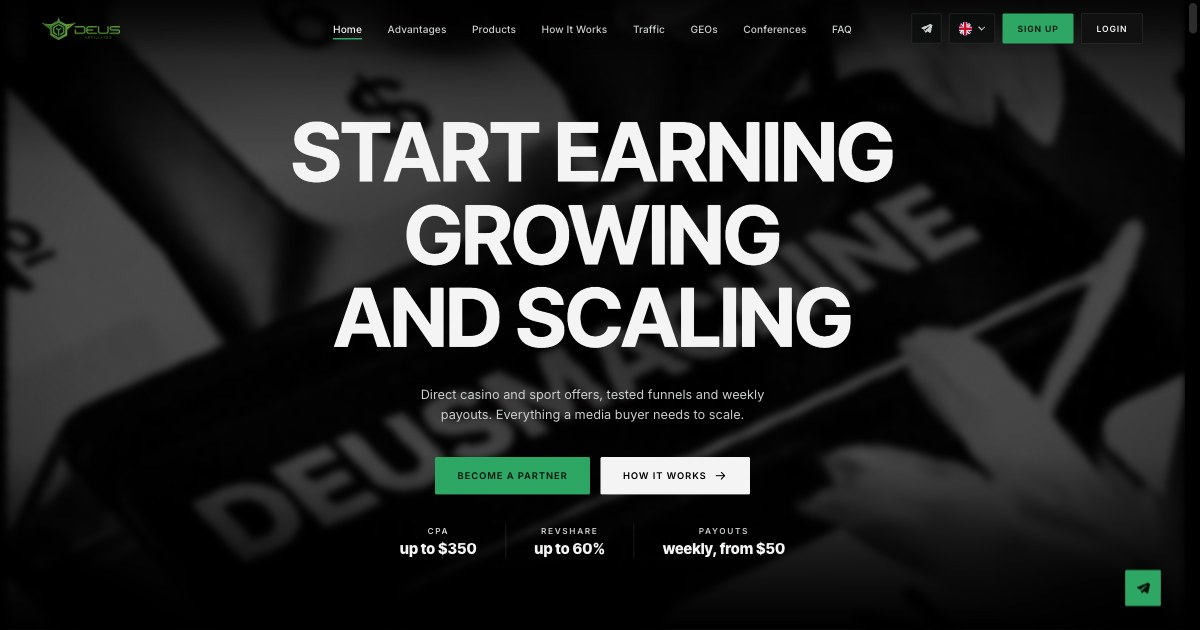
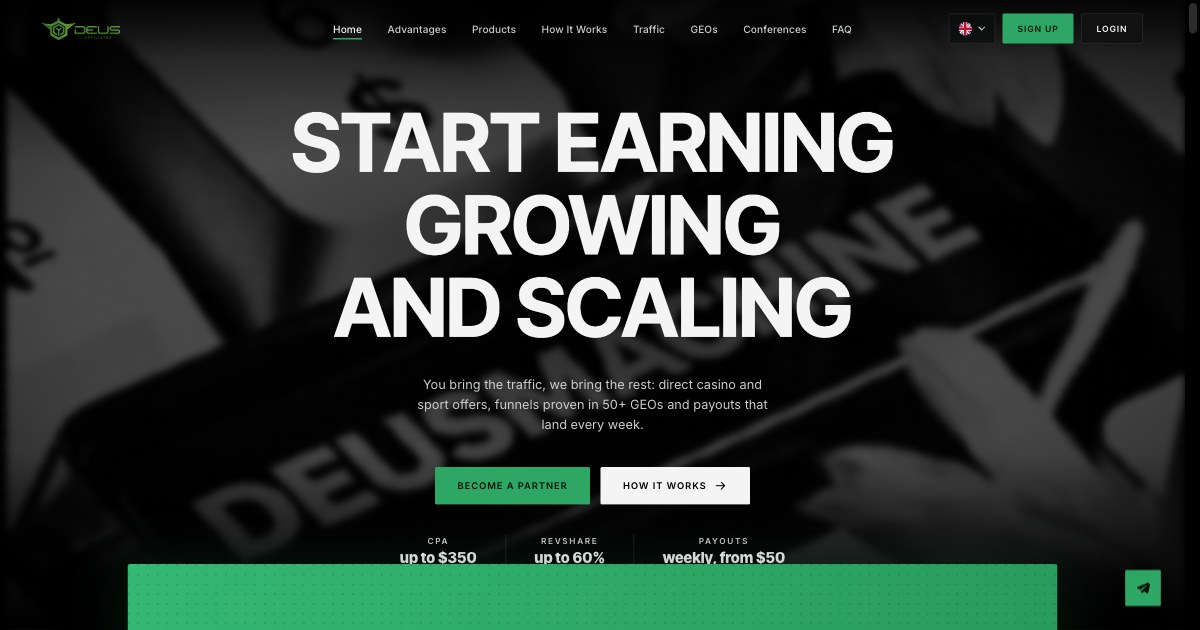
copy: hero subtitle rewritten for affiliate impact
'You bring the traffic, we bring the rest: direct casino and sport
offers, funnels proven in 50+ GEOs and payouts that land every week.'
Division-of-labor pitch instead of a feature list; all 6 dictionaries
updated; OG image regenerated.

Changed region(s): [[0.0925, 0.7238, 0.8942, 1.0], [0.2467, 0.181, 0.7708, 0.573], [0.3392, 0.6032, 0.6475, 0.6937]]

diff --git a/i18n.js b/i18n.js
@@ -16,7 +16,7 @@ export const translations = {
     'Start Earning': 'Зарабатывай',
     'Growing': 'Расти',
     'and Scaling': 'Масштабируйся',
-    'Direct casino and sport offers, tested funnels and weekly payouts. Everything a media buyer needs to scale.': 'Прямые офферы казино и спорта, проверенные воронки и еженедельные выплаты. Всё, что нужно медиабайеру для масштаба.',
+    'You bring the traffic, we bring the rest: direct casino and sport offers, funnels proven in 50+ GEOs and payouts that land every week.': 'С вас трафик, с нас всё остальное: прямые офферы на казино и спорт, воронки, проверенные в 50+ GEO, и выплаты, которые приходят каждую неделю.',
     'Become a Partner': 'Стать партнёром',
     'Active partners': 'Активных партнёров',
     'GEOs covered': 'ГЕО в работе',
@@ -257,7 +257,7 @@ export const translations = {
     'Start Earning': 'Comece a ganhar',
     'Growing': 'Crescer',
     'and Scaling': 'e escalar',
-    'Direct casino and sport offers, tested funnels and weekly payouts. Everything a media buyer needs to scale.': 'Ofertas diretas de cassino e esportes, funis testados e pagamentos semanais. Tudo o que um media buyer precisa para escalar.',
+    'You bring the traffic, we bring the rest: direct casino and sport offers, funnels proven in 50+ GEOs and payouts that land every week.': 'Você traz o tráfego, a gente traz o resto: ofertas diretas de cassino e esportes, funis comprovados em mais de 50 GEOs e pagamentos que caem toda semana.',
     'Become a Partner': 'Seja um parceiro',
     'Active partners': 'Parceiros ativos',
     'GEOs covered': 'GEOs cobertos',
@@ -498,7 +498,7 @@ export const translations = {
     'Start Earning': 'Empieza a ganar',
     'Growing': 'Crecer',
     'and Scaling': 'y escalar',
-    'Direct casino and sport offers, tested funnels and weekly payouts. Everything a media buyer needs to scale.': 'Ofertas directas de casino y deportes, embudos probados y pagos semanales. Todo lo que un media buyer necesita para escalar.',
+    'You bring the traffic, we bring the rest: direct casino and sport offers, funnels proven in 50+ GEOs and payouts that land every week.': 'Tú pones el tráfico, nosotros el resto: ofertas directas de casino y deportes, embudos probados en más de 50 GEOs y pagos que llegan cada semana.',
     'Become a Partner': 'Hazte partner',
     'Active partners': 'Partners activos',
     'GEOs covered': 'GEOs cubiertos',
@@ -738,7 +738,7 @@ export const translations = {
     'Start Earning': 'Kazanmaya başla',
     'Growing': 'Büyü',
     'and Scaling': 've ölçekle',
-    'Direct casino and sport offers, tested funnels and weekly payouts. Everything a media buyer needs to scale.': 'Direkt casino ve spor teklifleri, test edilmiş funnel’lar ve haftalık ödemeler. Bir media buyer’ın ölçeklenmek için ihtiyacı olan her şey.',
+    'You bring the traffic, we bring the rest: direct casino and sport offers, funnels proven in 50+ GEOs and payouts that land every week.': 'Trafik sizden, gerisi bizden: doğrudan casino ve spor teklifleri, 50+ GEO’da kanıtlanmış funnel’lar ve her hafta yatan ödemeler.',
     'Become a Partner': 'Partner ol',
     'Active partners': 'Aktif partner',
     'GEOs covered': 'Kapsanan GEO',
@@ -978,7 +978,7 @@ export const translations = {
     'Start Earning': 'Verdienen',
     'Growing': 'Wachsen',
     'and Scaling': 'und Skalieren',
-    'Direct casino and sport offers, tested funnels and weekly payouts. Everything a media buyer needs to scale.': 'Direkte Casino- und Sport-Offers, getestete Funnels und wöchentliche Auszahlungen. Alles, was ein Media Buyer zum Skalieren braucht.',
+    'You bring the traffic, we bring the rest: direct casino and sport offers, funnels proven in 50+ GEOs and payouts that land every week.': 'Du bringst den Traffic, wir den Rest: direkte Casino- und Sport-Offers, Funnels bewährt in 50+ GEOs und Auszahlungen, die jede Woche ankommen.',
     'Become a Partner': 'Partner werden',
     'Active partners': 'Aktive Partner',
     'GEOs covered': 'Abgedeckte GEOs',
@@ -1218,7 +1218,7 @@ export const translations = {
     'Start Earning': 'Gagnez',
     'Growing': 'Grandissez',
     'and Scaling': 'et scalez',
-    'Direct casino and sport offers, tested funnels and weekly payouts. Everything a media buyer needs to scale.': 'Offres casino et sport en direct, funnels testés et paiements hebdomadaires. Tout ce qu\'il faut à un media buyer pour scaler.',
+    'You bring the traffic, we bring the rest: direct casino and sport offers, funnels proven in 50+ GEOs and payouts that land every week.': 'Vous amenez le trafic, on s\'occupe du reste : des offres casino et sport en direct, des funnels éprouvés sur 50+ GEO et des paiements qui tombent chaque semaine.',
     'Become a Partner': 'Devenir partenaire',
     'Active partners': 'Partenaires actifs',
     'GEOs covered': 'GEOs couverts',

diff --git a/index.html b/index.html
@@ -142,7 +142,7 @@
           <span class="l"><span>Growing</span></span>
           <span class="l"><span>and Scaling</span></span>
         </h1>
-        <p class="hero__sub">Direct casino and sport offers, tested funnels and weekly payouts. Everything a media buyer needs&nbsp;to scale.</p>
+        <p class="hero__sub">You bring the traffic, we bring the rest: direct casino and sport offers, funnels proven in 50+ GEOs and payouts that land every&nbsp;week.</p>
         <div class="hero__cta">
           <a class="btn btn--green" href="#signup" data-magnetic>Become a Partner</a>
           <a class="btn btn--white" href="#how" data-magnetic>How It Works